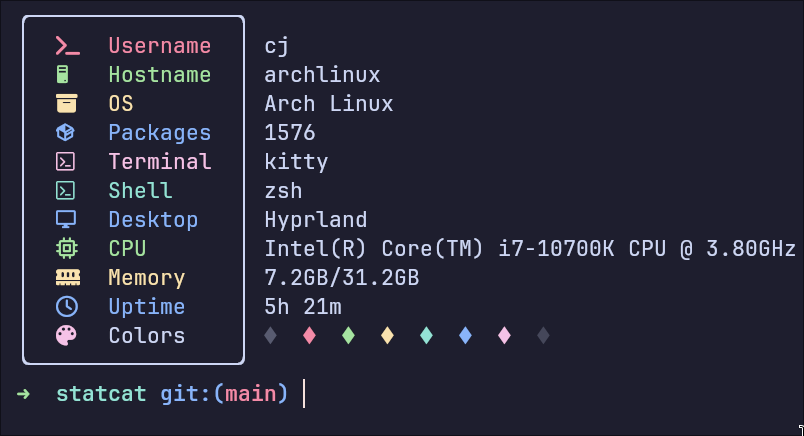
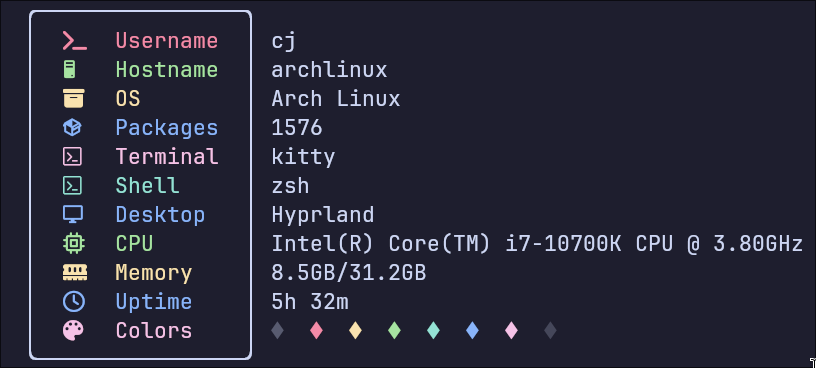
Fix colors order

diff --git a/src/main.rs b/src/main.rs
@@ -132,15 +132,15 @@ fn main() {
                     let colors = [
                         "\x1b[90m", // Bright black
                         "\x1b[31m", // Red
-                        "\x1b[32m", // Green
                         "\x1b[33m", // Yellow
+                        "\x1b[32m", // Green
                         "\x1b[36m", // Cyan
                         "\x1b[34m", // Blue
                         "\x1b[35m", // Magenta
                         "\x1b[30m", // Black
                     ];
                 
-                    print!("{side}{color_code}{icon} \x1b[0m{:<pad$}{separator}\x1b[0m", text);
+                    print!("{side}{color_code}{icon} {:<pad$}{r}{separator}", text);
                 
                     for element in colors {
                         print!("{element} {color_icon}\x1b[0m ");
